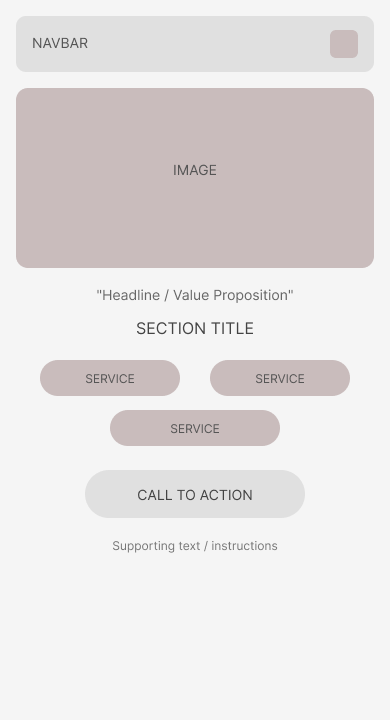
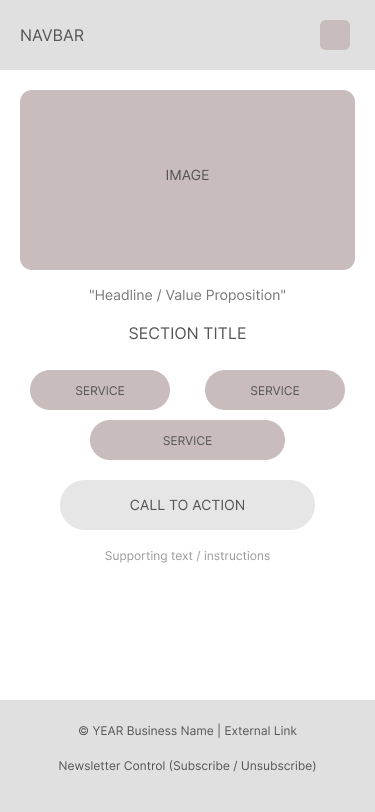
Add newsletter link to footer

Changed region(s): [[0.0293, 0.0, 0.968, 0.7639], [0.1467, 0.8861, 0.8507, 0.9472], [0.44, 0.2139, 0.5573, 0.2444]]

diff --git a/templates/base.html b/templates/base.html
@@ -370,7 +370,6 @@
     {% block content %}{% endblock %}
   </main>
 
-
 <script src="https://cdn.jsdelivr.net/npm/bootstrap@5.3.3/dist/js/bootstrap.bundle.min.js"></script>
 
 {% if user.is_authenticated and not user.is_superuser and not user.is_staff %}
@@ -495,6 +494,41 @@ document.addEventListener("dragstart", ev => {
 });
 </script>
 {% endif %}
+
+<footer class="text-center py-3">
+  <div class="container">
+    <div class="small mb-2">
+      © {% now "Y" %} Tucker & Dale's Home Services |
+      <a href="https://github.com/Pacman0126/tucker-and-dales-home-services#facebook-business-page-mockup"
+         target="_blank"
+         rel="noopener noreferrer">
+         Facebook Mockup
+      </a>
+    </div>
+
+    {% if user.is_authenticated and not user.is_superuser and not user.is_staff %}
+      {% if user.newsletter_sub and not user.newsletter_sub.unsubscribed %}
+        <a href="{% url 'core:newsletter_unsubscribe' user.newsletter_sub.token %}"
+           class="small">
+          Unsubscribe from Newsletter
+        </a>
+      {% elif user.newsletter_sub and user.newsletter_sub.unsubscribed %}
+        <form method="post"
+              action="{% url 'core:newsletter_resubscribe' %}"
+              class="d-inline">
+          {% csrf_token %}
+          <button type="submit" class="btn btn-link btn-sm p-0 text-warning">
+            Subscribe to Newsletter
+          </button>
+        </form>
+      {% endif %}
+    {% elif not user.is_authenticated %}
+      <a href="{% url 'account_signup' %}" class="small">
+        Register &amp; Subscribe to Newsletter
+      </a>
+    {% endif %}
+  </div>
+</footer>
 
   {% block extra_js %}{% endblock %}
 </body>

diff --git a/core/views.py b/core/views.py
@@ -6,12 +6,13 @@ from django.conf import settings
 from django.contrib import messages
 from django.contrib.admin.views.decorators import staff_member_required
 from django.contrib.auth import logout
-
+from django.contrib.auth.decorators import login_required
 from django.http import HttpResponse
 from django.shortcuts import get_object_or_404, redirect, render
+from django.utils import timezone
 from customers.models import CustomerProfile
 
-from .models import NewsletterSubscription
+from .models import NewsletterSubscription, first_day_next_month
 
 logger = logging.getLogger(__name__)
 
@@ -70,6 +71,30 @@ def newsletter_unsubscribe(request, token: str):
         "emails/newsletter_unsubscribed.html",
         {"email": sub.user.email},
     )
+
+
+@login_required
+def newsletter_resubscribe(request):
+    if request.method != "POST":
+        return redirect("core:home")
+
+    sub, created = NewsletterSubscription.objects.get_or_create(
+        user=request.user,
+        defaults={"next_send_on": first_day_next_month(timezone.localdate())},
+    )
+
+    if sub.unsubscribed:
+        sub.unsubscribed = False
+        sub.save(update_fields=["unsubscribed", "updated_at"])
+        messages.success(
+            request, "You have been resubscribed to the newsletter.")
+    elif created:
+        messages.success(
+            request, "You have been subscribed to the newsletter.")
+    else:
+        messages.info(request, "You are already subscribed to the newsletter.")
+
+    return redirect(request.META.get("HTTP_REFERER", "core:home"))
 
 
 @staff_member_required

diff --git a/core/urls.py b/core/urls.py
@@ -6,6 +6,10 @@ app_name = "core"
 urlpatterns = [
     path("newsletter/unsubscribe/<str:token>/",
          views.newsletter_unsubscribe, name="newsletter_unsubscribe"),
+    path(
+        "newsletter/resubscribe/",
+        views.newsletter_resubscribe,
+        name="newsletter_resubscribe",),
     path("newsletter/send-now/", views.newsletter_send_now,
          name="newsletter_send_now"),
     path("", views.home, name="home"),

diff --git a/README.md b/README.md
@@ -1051,17 +1051,14 @@ Each wireframe below corresponds to a key page in the **Customers App**.
 ---
 
 - **Home / Navbar Mobile 412x844**
-  - ![Home / Navbar Wireframe](readme/wireframes/home_navbar_mobile.png)
+   ![Home / Navbar Wireframe](readme/wireframes/home_navbar_mobile.png)
 
-  - ![Home / Navbar Wireframe](readme/wireframes/home_navbar_larger_devices.png)
 
-  - **Customer Profile** (customer facing page)
+ - **Customer Profile** (customer facing page)
 
   ![Customer Profile Wireframe](readme/wireframes/profile.png)
 
 ---
-
-
 
 [Back to Table of Contents](#table-of-contents)
 
@@ -2724,7 +2721,7 @@ Focus areas included:
 
 ![Mobile — Checkout Summary (Before Fix)](./images/testing_screenshots/Mobile_responsiveness/05a-Checkout-summary-before-tables-squahed.png)
 
- ![Mobile — Checkout Summary](./images/testing_screenshots/Mobile_responsiveness/05b-Checkout-summary.PNG)
+ ![Mobile — Checkout Summary (After fix)](./images/testing_screenshots/Mobile_responsiveness/05b-Checkout-summary.PNG)
 
 ---
 - VT-11.6
@@ -2893,12 +2890,6 @@ These controls ensure that the system remains reliable and maintains data integr
 
 [Back to Table of Contents](#table-of-contents)
 
-<!-- ## 🔄 Booking Lifecycle Testing
-
-[UNCHANGED — full evidence section]
-
----
-
 ### 🧠 Summary
 
 The system demonstrates:
@@ -2985,7 +2976,16 @@ The application uses a consistent visual approach with a focus on readability, c
 | US-28 | As a customer, I want concurrent checkout attempts to be handled safely, so that duplicate payments are blocked. | Pass | VT-12 |
 | US-29 | As a customer, I want failed payments to return safely to checkout, so that my session remains recoverable. | Pass | VT-12 |
 | US-30 | As a user, I want the system to preserve data integrity across booking, payment, and admin views, so that records remain consistent throughout the lifecycle. | Pass | PASS 4 / VT-12 |
-
+| US-31 | As a new visitor, I want the site to appear in search engines, so that I can discover available services. | Pass | Meta tags, sitemap.xml, robots.txt |
+| US-32 | As a visitor, I want clear page titles and descriptions, so that I understand the services before clicking. | Pass | Base template meta tags, page-level overrides |
+| US-33 | As a business owner, I want the site to be indexable, so that it can rank in search results. | Pass | robots.txt and sitemap.xml accessible |
+| US-34 | As a visitor, I want access to an external business reference, so that I can verify credibility. | Pass | Footer external link with rel="noopener noreferrer" |
+| US-35 | As a visitor, I want to see a newsletter signup option, so that I can receive updates and promotions. | Pass | Footer newsletter CTA (conditional display) |
+| US-36 | As a registered user, I want to unsubscribe from the newsletter, so that I can control my email preferences. | Pass | Footer unsubscribe link with token |
+| US-37 | As a registered user, I want to resubscribe to the newsletter, so that I can receive future updates again. | Pass | Footer resubscribe POST action |
+| US-38 | As a new user, I want to be automatically subscribed to updates, so that I don’t miss important information. | Pass | Signup signal + initial email sent |
+| US-39 | As a business owner, I want to send newsletters to users, so that I can promote services and offers. | Pass | Superuser newsletter send tool |
+| US-40 | As a mobile user, I want marketing elements to display correctly on smaller screens, so that I can interact easily. | Pass | Responsive footer + navbar behavior (<992px) |
 
 ---
 
@@ -2996,7 +2996,7 @@ All defined user stories were implemented and tested successfully.
 Each story is supported by:
 - functional testing (VT-10A / VT-10B)
 - defensive testing (VT-12)
-- lifecycle validation (PASS 4)
+- lifecycle validation
 
 This confirms full alignment between planned features and implemented functionality
 
@@ -3178,13 +3178,18 @@ Rather than deploying a live page, a **high-fidelity visual mockup** was created
 
 ---
 
-### Newsletter Integration
+### 📧 Newsletter Signup & Marketing
 
-A newsletter subscription system is implemented to support ongoing user engagement and retention.
+The application includes a newsletter system to support digital marketing and customer engagement.
 
-* Users receive confirmation upon subscription
-* Email communication is handled via transactional email integration
-* This supports future marketing campaigns such as promotions, reminders, and service updates
+- New users are automatically subscribed during registration and receive an initial email confirmation.
+- A visible footer control allows users to:
+  - Unsubscribe from the newsletter
+  - Resubscribe at any time
+- Subscription state is managed via the `NewsletterSubscription` model.
+- Ongoing newsletters are designed to be sent on a scheduled basis (e.g., monthly), rather than triggered on every subscribe/unsubscribe action.
+
+This approach ensures a clear marketing entry point, user control over preferences, and scalable email delivery.
 
 ---
 
